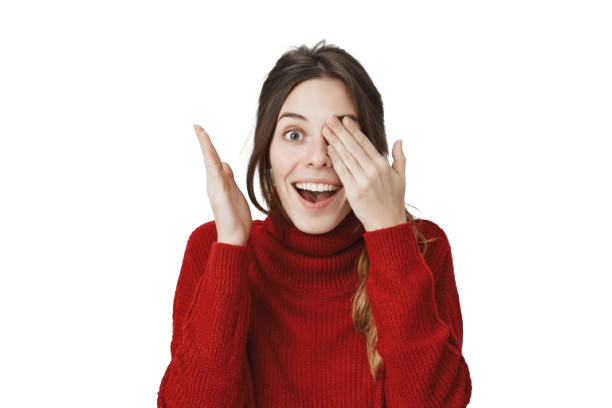
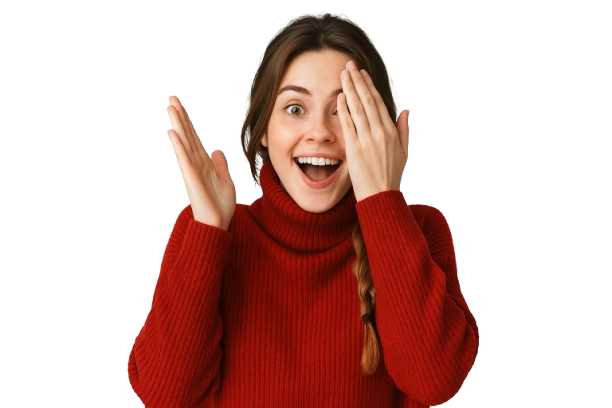
updated images using ai

Changed region(s): [[0.1863, 0.0294, 0.8072, 1.0]]

diff --git a/src/pages/User/ChooseCategory.jsx b/src/pages/User/ChooseCategory.jsx
@@ -170,15 +170,15 @@ const ChooseCategory = () => {
                 </div>
               </div>
 
-              <div className="relative w-32 h-32 sm:w-40 sm:h-40 flex-shrink-0">
-                <img
-                  src={manInWhiteShirt}
-                  alt="Find Match"
-                  className="w-full h-full object-contain rounded-full relative"
-                />
-            
-              
-              </div>
+              <div className="relative z-10 w-43 h-36 sm:w-48 sm:h-48 flex-shrink-0 md:w-56">
+  <img
+    src={manInWhiteShirt}
+    alt="Find Match"
+    className="w-full h-full object-cover"
+  />
+</div>
+
+
             </div>
           </div>
 
